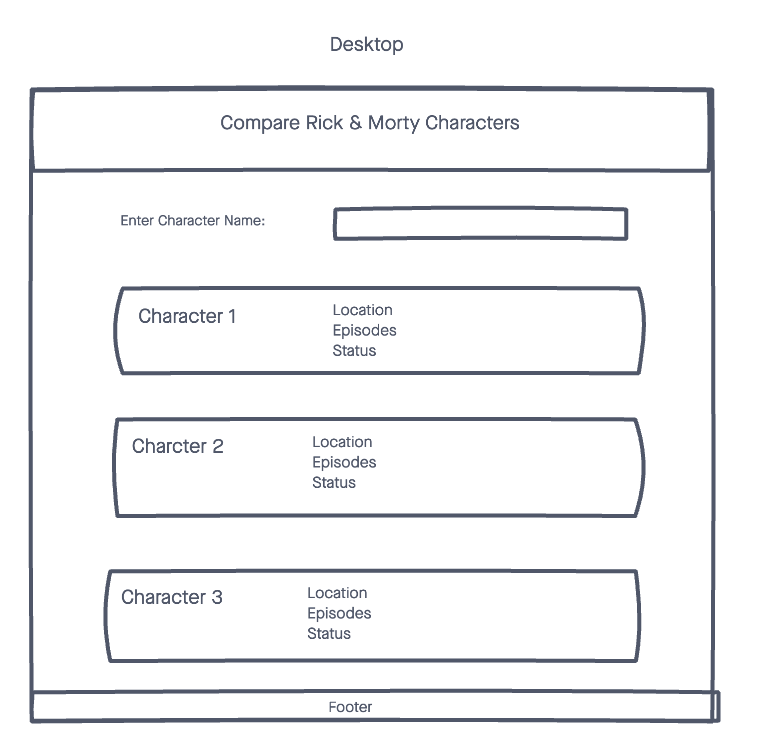
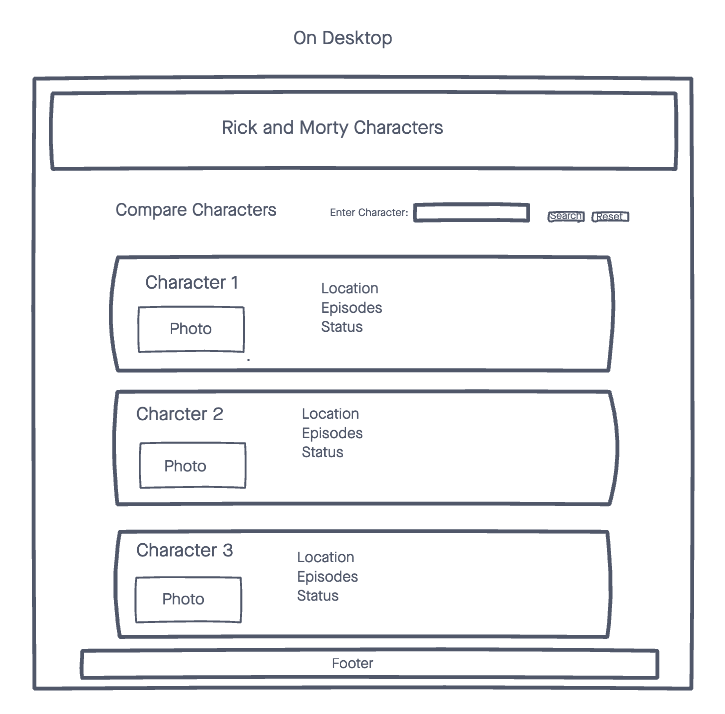
Updates to README

Changed region(s): [[0.0303, 0.0308, 0.971, 0.986], [0.1214, 0.2773, 0.88, 0.7087], [0.1517, 0.2773, 0.3945, 0.3081]]

diff --git a/README.md b/README.md
@@ -1,7 +1,12 @@
 # Rick and Morty Character Analysis
 
-A sinple web app that dislays rick and Morty characters and allows you to compare stats.
-Imput Character Name eg. Beth Smith, Simple character stats are displayed on one of 3 cards
+1. A sinple web app that dislays rick and Morty characters and allows you to compare basic stats.
+2. Imput Character Name eg. Beth Smith, Simple character stats are displayed on one of 3 cards.
+3. Each character entered goes to the next card and loops back to the first card.
+4. There is a reset button to clear out everything and begin all over again.
+5. If a character that is not on the list is entered, user is prompted 'Character Does Not Exist'.
+6. Clicking the image of the character displayed takeds you directly to a google search for said character.
+7. optimized to fit a variety of screen sizes.
 
 ## ⚙ Technologies Used
 - HTML5
@@ -17,9 +22,17 @@ Imput Character Name eg. Beth Smith, Simple character stats are displayed on one
 
 ![Wireframe Mobile](./imgs/wireframemobile.png)
 
+![App Screenshot](./imgs/AppOne.png)
+
+![Mobile Screenshot](./imgs/AppMobile.png)
+
 ## 🏎 💨 Getting Started
 
 [click here](https://bawumbila.github.io/Rick-and-Morty/) to get started with app online. 
 
 
 ## 🛠 Future Enhancements
+
+- Further Optimization to run more efficiently.
+- Minor UI tweeks.
+- Possible Animations.
